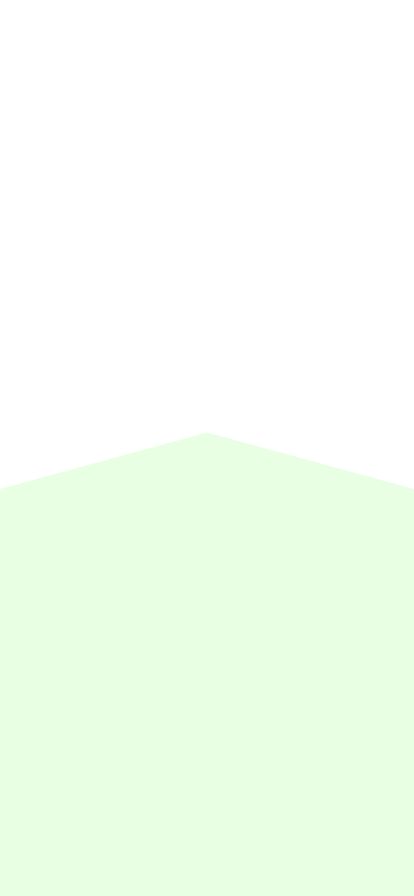
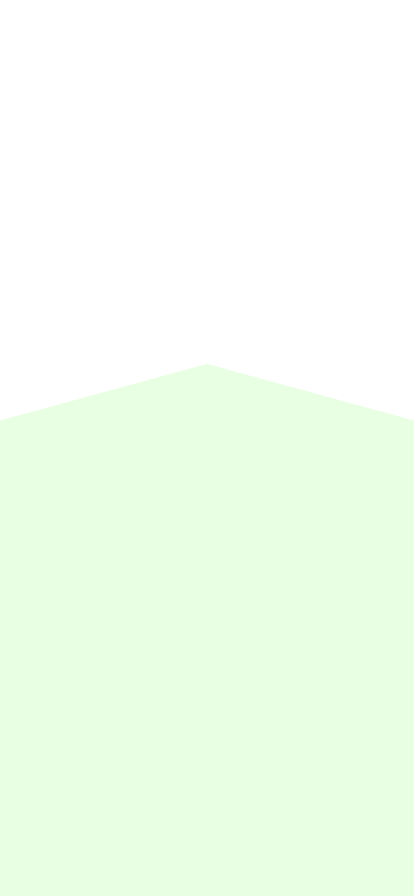
fixed background pic

Changed region(s): [[0.0, 0.4062, 1.0, 0.5625]]

diff --git a/app/assets/stylesheets/pages/_leaderboard.scss b/app/assets/stylesheets/pages/_leaderboard.scss
@@ -1,7 +1,9 @@
 .leaderboard_container {
   padding: 20px;
-  height: 100vh;
+  height: 100%;
   background-image: url('leaderboard_bg.png');
+  margin-bottom: 40px;
+  background-size: cover;
 }
 
 .crown_pic {
@@ -9,7 +11,7 @@
   width: 40px;
   position: relative;
   top: 18px;
-  left: 25px;
+  left: 35px;
   transform: rotate(30deg);
 };
 
@@ -19,8 +21,11 @@
 }
 
 .second_and_third_player {
+  position: relative;
+  top: -20px;
+}
 
+.rest_users {
   position: relative;
   top: -30px;
-
 }
